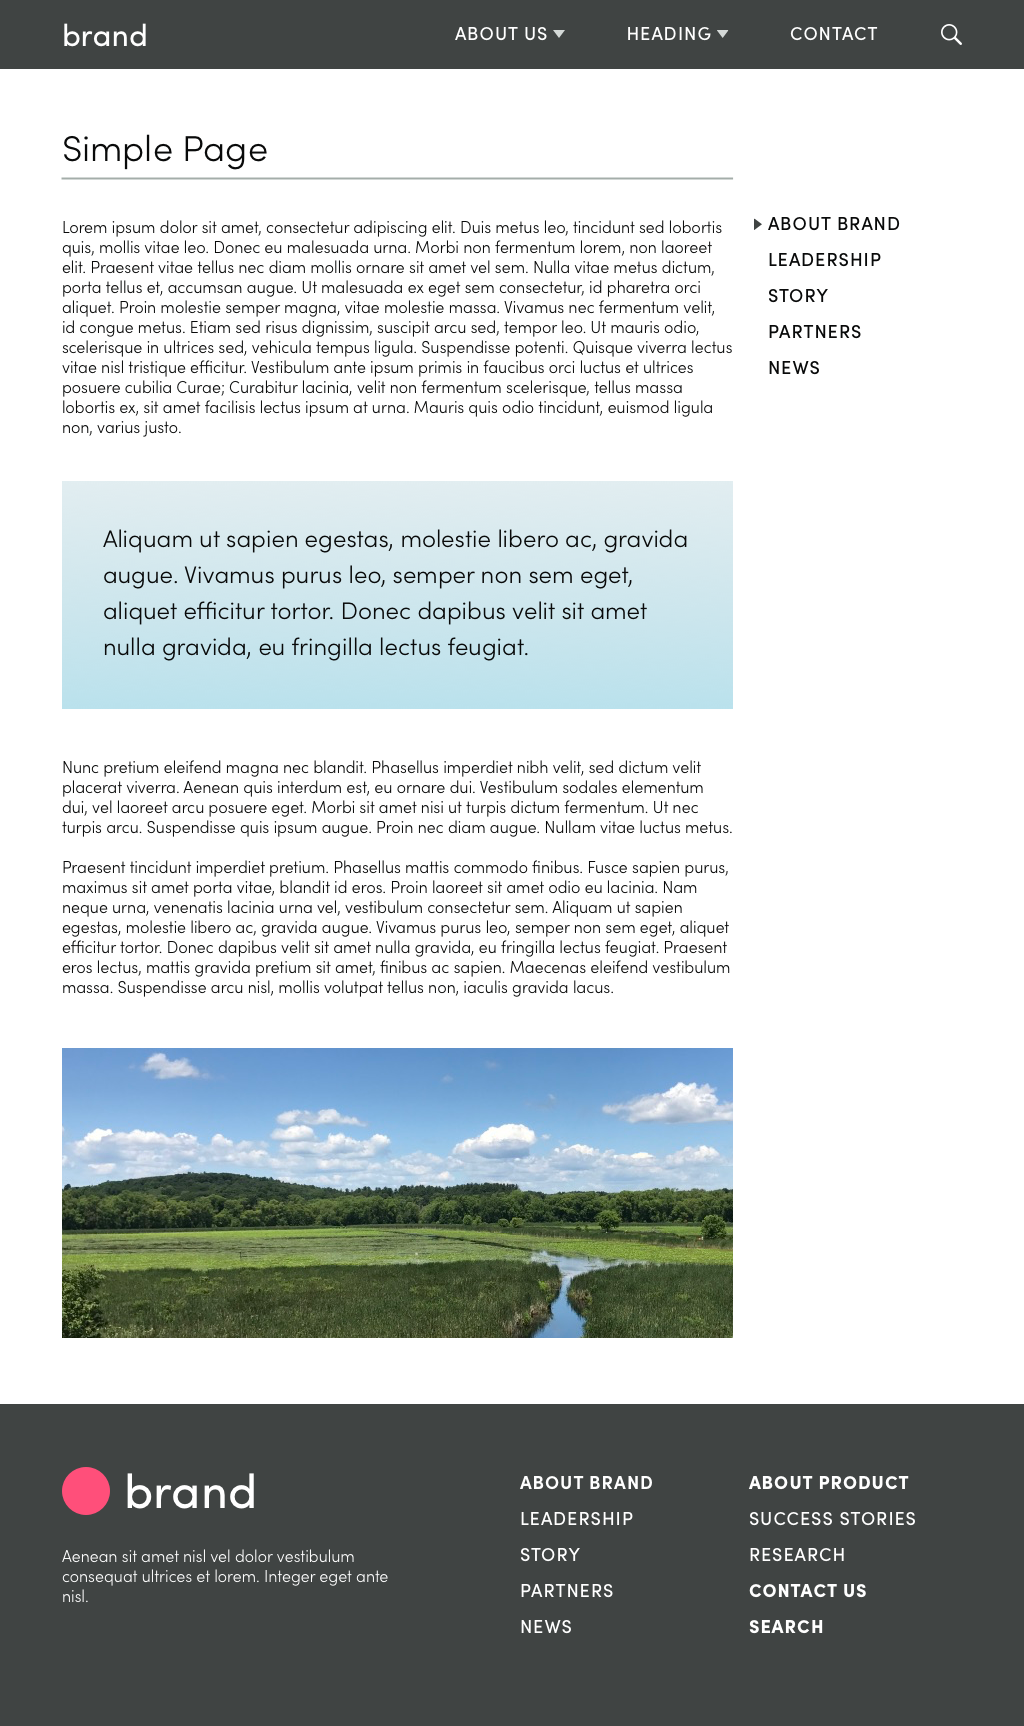
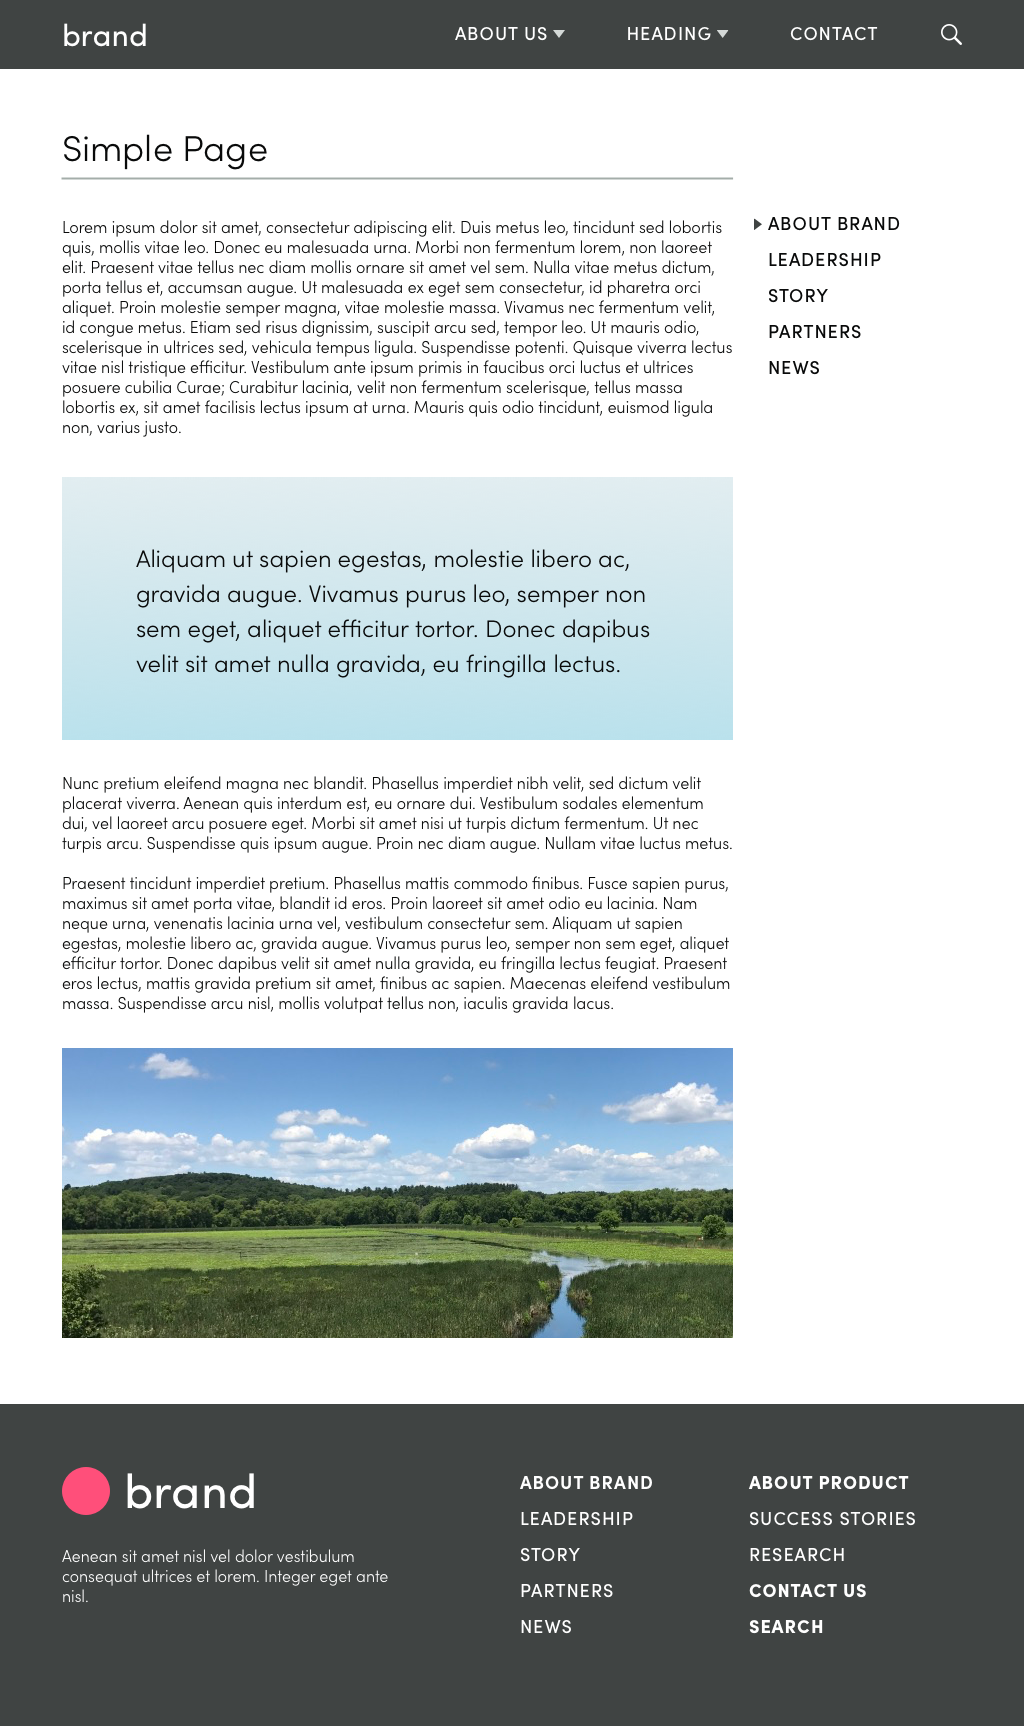
Update 2018a project with larger image

Changed region(s): [[0.0625, 0.3071, 0.7188, 0.5834]]

diff --git a/_posts/2018-01-01-a.md b/_posts/2018-01-01-a.md
@@ -4,10 +4,8 @@ categories: web
 img:
 - large: 2018a.png
   thumb: 2018a.jpg
-- large: 2018a-inside.png
-  thumb: 2018a-inside.jpg
 ---
 
-I designed this website while at Little Weaver Web Collective for a startup presenting a new product and technology in a conservative field. We learned in interviews that the stakeholders wanted to position themselves as bringing their field into a new era, looking to companies like Apple and Tesla for branding inspiration. To this end, the marketing pages are composed of dynamic rearrangeable sections that can be used much like a slide deck to sell buyers and investors on the company and product. Potential users we talked with required a simpler trustworthy look, which inspired the simplicity of the inside pages.
+I designed this website while at Little Weaver Web Collective for a startup presenting a new product and technology in a conservative field. We learned in interviews that the stakeholders wanted to position themselves as bringing their field into a new era, looking to companies like Apple and Tesla for branding inspiration. To this end, the marketing pages are composed of dynamic rearrangeable sections that can be used much like a slide deck to sell buyers and investors on the company and product.
 
-The client was very happy with the design but had to halt the project due to financial difficulties. The images here present the design without being identifiable to the client's branding. Each of them links to a full-page mockup.
+The client was very happy with the design but had to halt the project due to financial difficulties. The image here presents the design without being identifiable to the client's branding.
